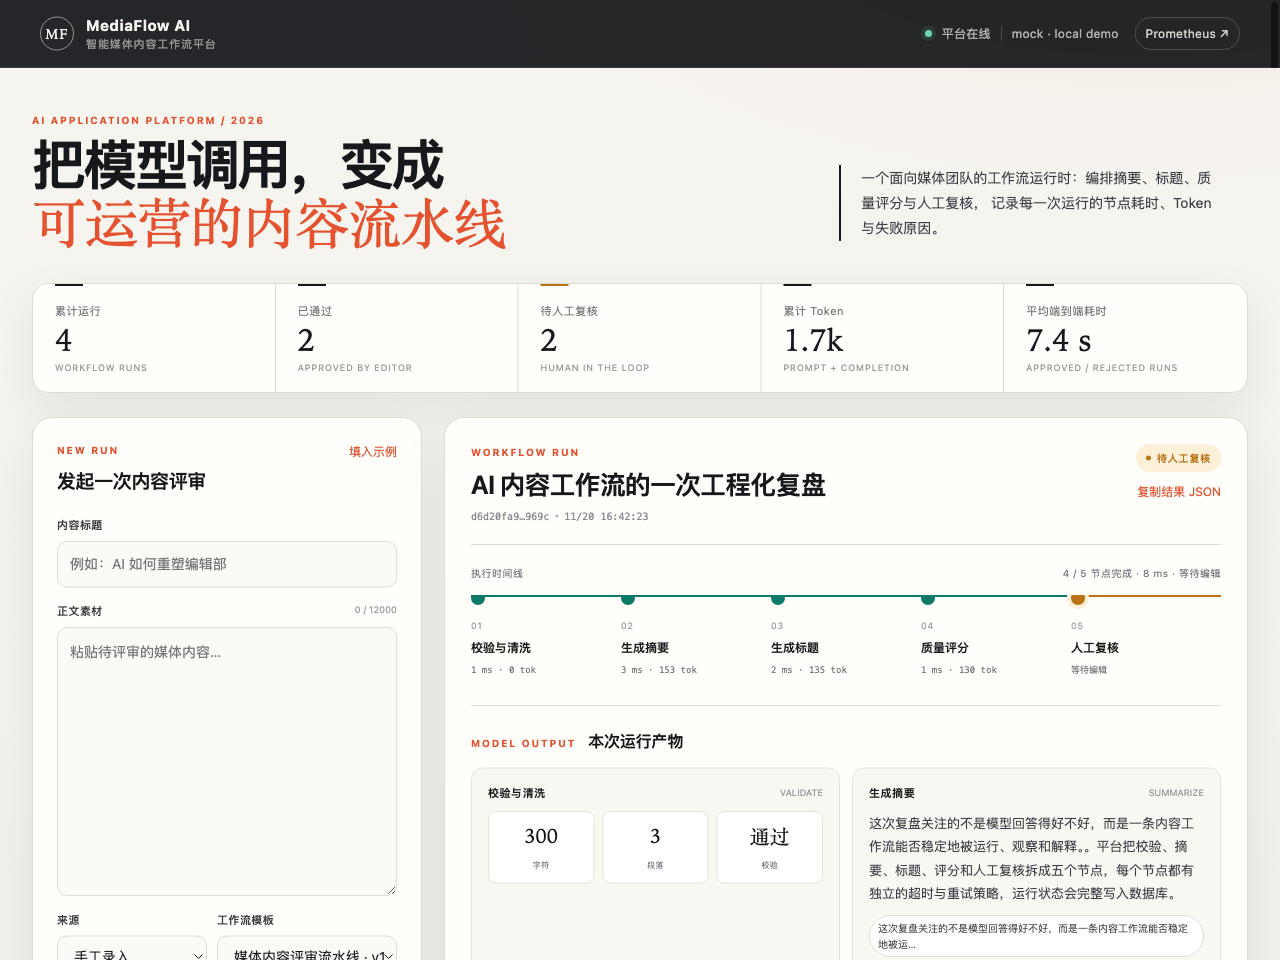
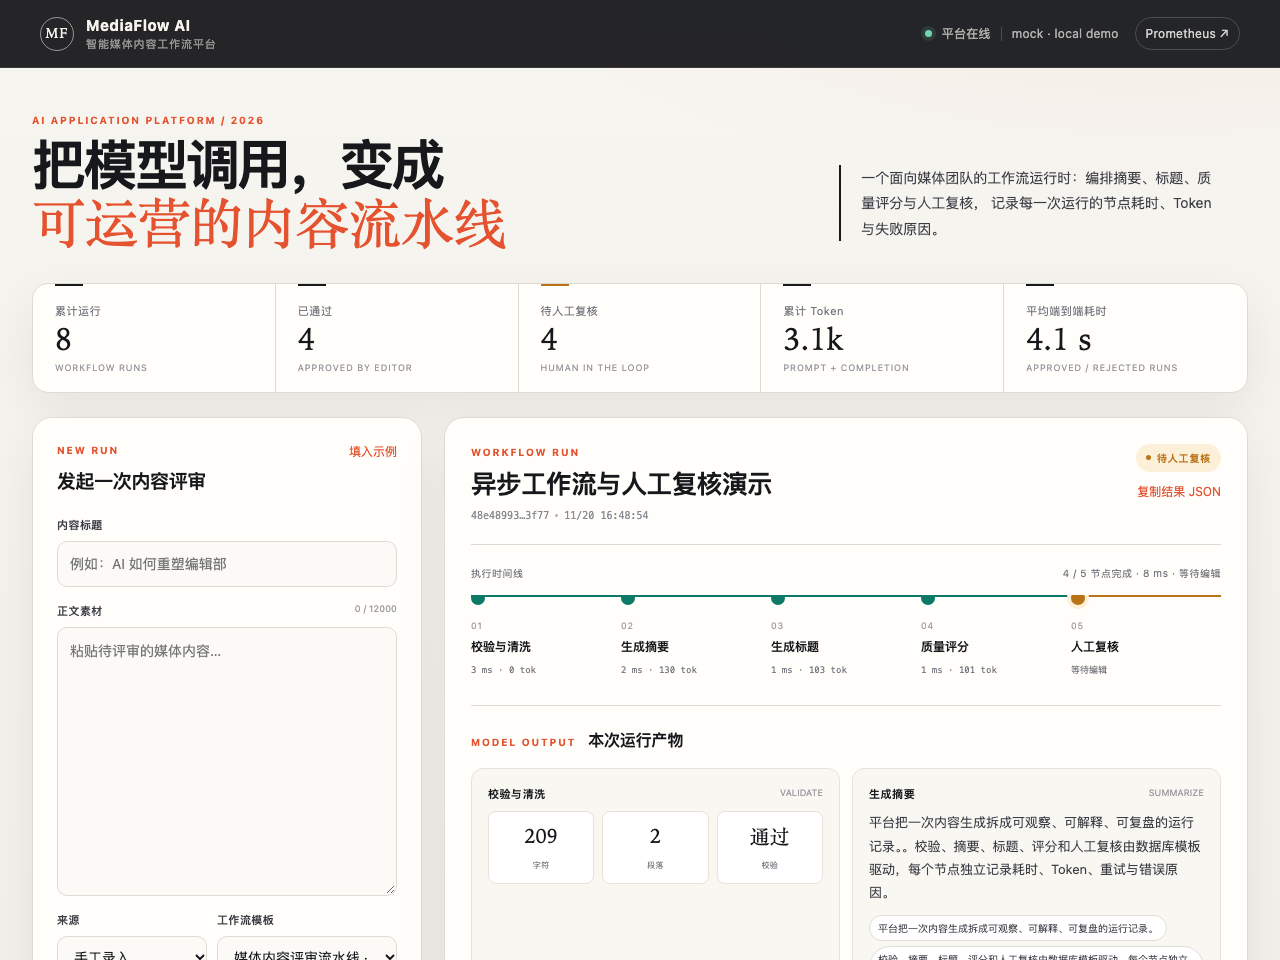
fix: separate run creation from state transitions

diff --git a/src/main/java/com/mediaflow/workflow/WorkflowMetrics.java b/src/main/java/com/mediaflow/workflow/WorkflowMetrics.java
@@ -17,6 +17,10 @@ public class WorkflowMetrics {
         registry.gauge("ai_workflow_active_runs", activeRuns);
     }
 
+    public void runCreated(String templateId) {
+        counter("ai_workflow_runs_total", "template", templateId, "status", "created").increment();
+    }
+
     public void runQueued(String templateId) {
         counter("ai_workflow_runs_total", "template", templateId, "status", "queued").increment();
     }

diff --git a/src/main/java/com/mediaflow/workflow/WorkflowService.java b/src/main/java/com/mediaflow/workflow/WorkflowService.java
@@ -140,6 +140,7 @@ public class WorkflowService {
                             null,
                             null));
         }
+        metrics.runCreated(templateId);
         metrics.runQueued(templateId);
         dispatcher.dispatch(runId);
         RunStatus current =
